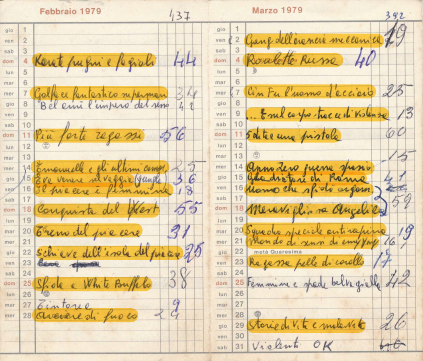
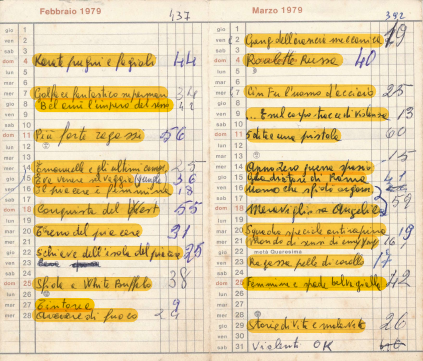
update calendario 79

Changed region(s): [[0.5532, 0.7618, 0.922, 0.8227], [0.0615, 0.2742, 0.4303, 0.3352], [0.0615, 0.8227, 0.2459, 0.8837]]

diff --git a/content/agende/1979-01-01-calendario-proiezioni-1979/index.md b/content/agende/1979-01-01-calendario-proiezioni-1979/index.md
@@ -5,108 +5,111 @@ date: '1979-01-01'
 slug: calendario-proiezioni-1979
 categories:
   - Calendario
-  - Proiezioni
 tags:
-  - AgendaCinematografica
   - Database
+  - Proiezioni
 ---
 {{< image-gallery gallery_dir="/images/1979_01_01_calendario_proiezioni" >}}
 
 ### Lista film
 
-|Data di proiezione |Titolo                                                                     |
-|:------------------|:--------------------------------------------------------------------------|
-|1979-01-01         |[Acquasanta Joe](https://www.imdb.com/title/tt0066743/)                    |
-|1979-01-04         |[Bocca di velluto](https://www.imdb.com/title/tt0069718/)                  |
-|1979-01-05         |[L'uomo dall'occhio di vetro](https://www.imdb.com/title/tt0063270/)       |
-|1979-01-07         |[Squadra speciale antirapina (Quelli antirapina)](https://www.imdb.com/title/tt0071836/)|
-|1979-01-09         |[Il giorno del grande massacro](https://www.imdb.com/title/tt0073357/)     |
-|1979-01-12         |[Una città fatta di rabbia](https://www.imdb.com/title/tt0074278/)         |
-|1979-01-14         |[La valle dei comanches](https://www.imdb.com/title/tt0066034/)            |
-|1979-01-17         |[Labbra di lurido blu](https://www.imdb.com/title/tt0125826/)              |
-|1979-01-18         |[Papillon](https://www.imdb.com/title/tt0070511/)                          |
-|1979-01-21         |[Il drago non perdona](https://www.imdb.com/title/tt0996367/)              |
-|1979-01-22         |[Il gigante dell'Himalaya](https://www.imdb.com/title/tt0076164/)          |
-|1979-01-23         |[Atti impuri all'italiana](https://www.imdb.com/title/tt0166087/)          |
-|1979-01-25         |[La padrona è servita](https://www.imdb.com/title/tt0081296/)              |
-|1979-01-28         |[Anche gli angeli mangiano fagioli](https://www.imdb.com/title/tt0069713/) |
-|1979-01-30         |[I due superpiedi quasi piatti](https://www.imdb.com/title/tt0074442/)     |
-|1979-02-04         |[Storia di karatè, pugni e fagioli](https://www.imdb.com/title/tt0070307/) |
-|1979-02-07         |[Goldface il fantastico Superman](https://www.imdb.com/title/tt0064375/)   |
-|1979-02-11         |[...Più forte ragazzi!](https://www.imdb.com/title/tt0069095/)             |
-|1979-02-14         |[Emanuelle e gli ultimi cannibali](https://www.imdb.com/title/tt0075984/)  |
-|1979-02-15         |[Eva, la Venere selvaggia](https://www.imdb.com/title/tt0062946/)          |
-|1979-02-16         |[Il piacere è femmina](https://www.imdb.com/title/tt0145461/)              |
-|1979-02-18         |[La conquista del West](https://www.imdb.com/title/tt0056085/)             |
-|1979-02-20         |[SS il treno del piacere](https://www.imdb.com/title/tt0076836/)           |
-|1979-02-22         |[Schiave nell'isola del piacere](https://www.imdb.com/title/tt0071712/)    |
-|1979-02-25         |[Sfida a White Buffalo](https://www.imdb.com/title/tt0076915/)             |
-|1979-02-28         |[L'arciere di fuoco](https://www.imdb.com/title/tt0065420/)                |
-|1979-03-02         |[La gang dell'arancia meccanica](https://www.imdb.com/title/tt0280224/)    |
-|1979-03-04         |[Roulette russa](https://www.imdb.com/title/tt0073646/)                    |
+|Data di proiezione |Titolo                                                                                   |
+|:------------------|:----------------------------------------------------------------------------------------|
+|1979-01-01         |[Acquasanta Joe](https://www.imdb.com/title/tt0066743/)                                  |
+|1979-01-04         |[Bocca di velluto](https://www.imdb.com/title/tt0069718/)                                |
+|1979-01-05         |[L'uomo dall'occhio di vetro](https://www.imdb.com/title/tt0063270/)                     |
+|1979-01-07         |[Quelli antirapina (Squadra speciale antirapina)](https://www.imdb.com/title/tt0071836/) |
+|1979-01-09         |[Il giorno del grande massacro](https://www.imdb.com/title/tt0073357/)                   |
+|1979-01-12         |[Una città fatta di rabbia](https://www.imdb.com/title/tt0074278/)                       |
+|1979-01-14         |[La valle dei comanches](https://www.imdb.com/title/tt0066034/)                          |
+|1979-01-17         |[Labbra di lurido blu](https://www.imdb.com/title/tt0125826/)                            |
+|1979-01-18         |[Papillon](https://www.imdb.com/title/tt0070511/)                                        |
+|1979-01-21         |[Il drago non perdona](https://www.imdb.com/title/tt0996367/)                            |
+|1979-01-22         |[Il gigante dell'Himalaya](https://www.imdb.com/title/tt0076164/)                        |
+|1979-01-23         |[Atti impuri all'italiana](https://www.imdb.com/title/tt0166087/)                        |
+|1979-01-25         |[La padrona è servita](https://www.imdb.com/title/tt0081296/)                            |
+|1979-01-28         |[Anche gli angeli mangiano fagioli](https://www.imdb.com/title/tt0069713/)               |
+|1979-01-30         |[I due superpiedi quasi piatti](https://www.imdb.com/title/tt0074442/)                   |
+|1979-02-04         |[Storia di karatè, pugni e fagioli](https://www.imdb.com/title/tt0070307/)               |
+|1979-02-07         |[Goldface il fantastico Superman](https://www.imdb.com/title/tt0064375/)                 |
+|1979-02-08         |[Bel Ami l'impero del sesso](https://www.imdb.com/title/tt0074196/)                      |
+|1979-02-11         |[...Più forte ragazzi!](https://www.imdb.com/title/tt0069095/)                           |
+|1979-02-14         |[Emanuelle e gli ultimi cannibali](https://www.imdb.com/title/tt0075984/)                |
+|1979-02-15         |[Eva, la Venere selvaggia](https://www.imdb.com/title/tt0062946/)                        |
+|1979-02-16         |[Il piacere è femmina](https://www.imdb.com/title/tt0145461/)                            |
+|1979-02-18         |[La conquista del West](https://www.imdb.com/title/tt0056085/)                           |
+|1979-02-20         |[SS il treno del piacere](https://www.imdb.com/title/tt0076836/)                         |
+|1979-02-22         |[Schiave nell'isola del piacere](https://www.imdb.com/title/tt0071712/)                  |
+|1979-02-25         |[Sfida a White Buffalo](https://www.imdb.com/title/tt0076915/)                           |
+|1979-02-27         |[Tintorera](https://www.imdb.com/title/tt0076825/)                                       |
+|1979-02-28         |[L'arciere di fuoco](https://www.imdb.com/title/tt0065420/)                              |
+|1979-03-02         |[La gang dell'arancia meccanica](https://www.imdb.com/title/tt0280224/)                  |
+|1979-03-04         |[Roulette russa](https://www.imdb.com/title/tt0073646/)                                  |
 |1979-03-07         |[Cin-Fu l'uomo d'acciaio - Vado li spacco e... torno!](https://www.imdb.com/title/tt0092270/)|
-|1979-03-09         |[E sul corpo tracce di violenza](https://www.imdb.com/title/tt0071628/)    |
-|1979-03-11         |[5 dita e una pistola](https://www.imdb.com/title/tt0165197/)              |
-|1979-03-14         |[Anno zero - Guerra nello spazio](https://www.imdb.com/title/tt0149677/)   |
-|1979-03-15         |[Il gladiatore di Roma](https://www.imdb.com/title/tt0056026/)             |
-|1979-03-16         |[L'uomo che sfidò l'organizzazione](https://www.imdb.com/title/tt0073845/) |
-|1979-03-18         |[La meravigliosa Angelica](https://www.imdb.com/title/tt0058343/)          |
-|1979-03-20         |[Squadra speciale antirapina](https://www.imdb.com/title/tt0071836/)       |
-|1979-03-21         |[Il mondo dei sensi di Emy Wong](https://www.imdb.com/title/tt0074914/)    |
-|1979-03-23         |[La ragazza dalla pelle di corallo](https://www.imdb.com/title/tt0075383/) |
+|1979-03-09         |[E sul corpo tracce di violenza](https://www.imdb.com/title/tt0071628/)                  |
+|1979-03-11         |[5 dita e una pistola](https://www.imdb.com/title/tt0165197/)                            |
+|1979-03-14         |[Anno zero - Guerra nello spazio](https://www.imdb.com/title/tt0149677/)                 |
+|1979-03-15         |[Il gladiatore di Roma](https://www.imdb.com/title/tt0056026/)                           |
+|1979-03-16         |[L'uomo che sfidò l'organizzazione](https://www.imdb.com/title/tt0073845/)               |
+|1979-03-18         |[La meravigliosa Angelica](https://www.imdb.com/title/tt0058343/)                        |
+|1979-03-20         |[Squadra speciale antirapina](https://www.imdb.com/title/tt0071836/)                     |
+|1979-03-21         |[Il mondo dei sensi di Emy Wong](https://www.imdb.com/title/tt0074914/)                  |
+|1979-03-23         |[La ragazza dalla pelle di corallo](https://www.imdb.com/title/tt0075383/)               |
+|1979-03-25         |[Femmine e spade per una belva gialla (L'uomo dalla mano d'acciaio contro il drago rosso)](https://www.imdb.com/title/tt1342398/)|
 |1979-03-29         |[Storie di vita e malavita (Racket della prostituzione minorile)](https://www.imdb.com/title/tt0073749/)|
-|1979-04-06         |[La orca](https://www.imdb.com/title/tt0126559/)                           |
-|1979-04-08         |[Gatti rossi in un labirinto di vetro](https://www.imdb.com/title/tt0071537/)|
-|1979-04-10         |[La principessa nuda](https://www.imdb.com/title/tt0134906/)               |
-|1979-04-18         |[David e Golia](https://www.imdb.com/title/tt0054788/)                     |
-|1979-04-22         |[Bruce Lee il maestro](https://www.imdb.com/title/tt0071253/)              |
-|1979-04-24         |[L'uomo venuto dalla pioggia](https://www.imdb.com/title/tt0064791/)       |
-|1979-04-29         |[Il testimone deve tacere](https://www.imdb.com/title/tt0179463/)          |
-|1979-05-01         |[Taxi Girl](https://www.imdb.com/title/tt0076801/)                         |
-|1979-05-06         |[La mala ordina](https://www.imdb.com/title/tt0068902/)                    |
-|1979-05-12         |[Holocaust 2000](https://www.imdb.com/title/tt0077332/)                    |
-|1979-05-13         |[I desideri erotici di Christine](https://www.imdb.com/title/tt0066914/)   |
-|1979-05-19         |[La calda bestia](https://www.imdb.com/title/tt0218380/)                   |
-|1979-05-20         |[Salvo D'Acquisto](https://www.imdb.com/title/tt0140529/)                  |
-|1979-08-28         |[Chen il pugno che uccide](https://www.imdb.com/title/tt0080999/)          |
-|1979-09-07         |[Jing wu men xu ji (Il Ritorno di Palma d'Acciaio)](https://www.imdb.com/title/tt0074313/)|
-|1979-09-09         |[L'autista di notte](https://www.imdb.com/title/tt0067777/)                |
-|1979-09-11         |[Quella provincia maliziosa](https://www.imdb.com/title/tt0140491/)        |
-|1979-09-14         |[Gli uomini della terra dimenticata dal tempo](https://www.imdb.com/title/tt0076535/)|
-|1979-09-16         |[Il colpo segreto di Bruce Lee](https://www.imdb.com/title/tt0058994/)     |
+|1979-04-06         |[La orca](https://www.imdb.com/title/tt0126559/)                                         |
+|1979-04-08         |[Gatti rossi in un labirinto di vetro](https://www.imdb.com/title/tt0071537/)            |
+|1979-04-10         |[La principessa nuda](https://www.imdb.com/title/tt0134906/)                             |
+|1979-04-18         |[David e Golia](https://www.imdb.com/title/tt0054788/)                                   |
+|1979-04-22         |[Bruce Lee il maestro](https://www.imdb.com/title/tt0071253/)                            |
+|1979-04-24         |[L'uomo venuto dalla pioggia](https://www.imdb.com/title/tt0064791/)                     |
+|1979-04-29         |[Il testimone deve tacere](https://www.imdb.com/title/tt0179463/)                        |
+|1979-05-01         |[Taxi Girl](https://www.imdb.com/title/tt0076801/)                                       |
+|1979-05-06         |[La mala ordina](https://www.imdb.com/title/tt0068902/)                                  |
+|1979-05-12         |[Holocaust 2000](https://www.imdb.com/title/tt0077332/)                                  |
+|1979-05-13         |[I desideri erotici di Christine](https://www.imdb.com/title/tt0066914/)                 |
+|1979-05-19         |[La calda bestia](https://www.imdb.com/title/tt0218380/)                                 |
+|1979-05-20         |[Salvo D'Acquisto](https://www.imdb.com/title/tt0140529/)                                |
+|1979-08-28         |[Chen il pugno che uccide](https://www.imdb.com/title/tt0080999/)                        |
+|1979-09-07         |[Il ritorno di palma d'acciaio](https://www.imdb.com/title/tt0074313/)                   |
+|1979-09-09         |[L'autista di notte](https://www.imdb.com/title/tt0067777/)                              |
+|1979-09-11         |[Quella provincia maliziosa](https://www.imdb.com/title/tt0140491/)                      |
+|1979-09-14         |[Gli uomini della terra dimenticata dal tempo](https://www.imdb.com/title/tt0076535/)    |
+|1979-09-16         |[Il colpo segreto di Bruce Lee](https://www.imdb.com/title/tt0058994/)                   |
 |1979-09-18         |[Sollazzevoli storie di mogli gaudenti e mariti penitenti - Decameron n. 69](https://www.imdb.com/title/tt0069295/)|
-|1979-09-21         |[Nero veneziano](https://www.imdb.com/title/tt0122629/)                    |
-|1979-09-23         |[Bermude: la fossa maledetta](https://www.imdb.com/title/tt0077225/)       |
-|1979-09-25         |[La ragazza dal pigiama giallo](https://www.imdb.com/title/tt0075834/)     |
-|1979-09-30         |[Lo spaccatutto](https://www.imdb.com/title/tt0079803/)                    |
-|1979-10-04         |[Diamanti sporchi di sangue](https://www.imdb.com/title/tt0075940/)        |
-|1979-10-11         |[Le impiegate stradali](https://www.imdb.com/title/tt0074673/)             |
-|1979-10-12         |[Io sono mia](https://www.imdb.com/title/tt0077748/)                       |
-|1979-10-17         |[La donna della calda terra](https://www.imdb.com/title/tt0077958/)        |
-|1979-10-21         |[California](https://www.imdb.com/title/tt0075796/)                        |
-|1979-10-23         |[Una sporca coppia](https://www.imdb.com/title/tt0198611/)                 |
-|1979-10-25         |[Professoressa facciamo l'amore](https://www.imdb.com/title/tt0072260/)    |
-|1979-10-28         |[Scontri stellari oltre la terza dimensione](https://www.imdb.com/title/tt0079946/)|
-|1979-11-02         |[La furia del drago](https://www.imdb.com/title/tt0827709/)                |
-|1979-11-08         |[Casotto](https://www.imdb.com/title/tt0075815/)                           |
-|1979-11-11         |[Bruce Lee il maestro](https://www.imdb.com/title/tt0071253/)              |
-|1979-11-13         |[La tigre del sesso](https://www.imdb.com/title/tt0078398/)                |
-|1979-11-18         |[Il commissario di ferro](https://www.imdb.com/title/tt0077363/)           |
-|1979-11-20         |[Grizzly l'orso che uccide](https://www.imdb.com/title/tt0074593/)         |
-|1979-11-22         |[Scherzi da prete](https://www.imdb.com/title/tt0078206/)                  |
-|1979-11-23         |[Peccato veniale](https://www.imdb.com/title/tt0066015/)                   |
-|1979-11-25         |[Amore, piombo e furore](https://www.imdb.com/title/tt0077327/)            |
-|1979-11-27         |[Ragazze a pagamento](https://www.imdb.com/title/tt1082822/)               |
-|1979-11-29         |[Suor Emanuelle](https://www.imdb.com/title/tt0078344/)                    |
-|1979-11-30         |[Manitù, lo spirito del male](https://www.imdb.com/title/tt0077904/)       |
-|1979-12-02         |[Il triangolo delle Bermude](https://www.imdb.com/title/tt0078417/)        |
-|1979-12-04         |[Moglie nuda e siciliana](https://www.imdb.com/title/tt0077940/)           |
-|1979-12-06         |[La polizia è sconfitta](https://www.imdb.com/title/tt0078336/)            |
-|1979-12-07         |[Sinbad e l'occhio della tigre](https://www.imdb.com/title/tt0076716/)     |
-|1979-12-09         |[Il vangelo secondo Simone e Matteo](https://www.imdb.com/title/tt0073854/)|
-|1979-12-16         |[Il principe e il povero](https://www.imdb.com/title/tt0077381/)           |
-|1979-12-18         |[Messaggi da forze sconosciute](https://www.imdb.com/title/tt0078975/)     |
-|1979-12-23         |[Aquila Grigia il grande capo dei Cheyenne](https://www.imdb.com/title/tt0077630/)|
-|1979-12-25         |[Incredibile viaggio verso l'ignoto](https://www.imdb.com/title/tt0072951/)|
-|1979-12-28         |[Abissi](https://www.imdb.com/title/tt0075925/)                            |
-|1979-12-30         |[Shalako](https://www.imdb.com/title/tt0063592/)                           |
+|1979-09-21         |[Nero veneziano](https://www.imdb.com/title/tt0122629/)                                  |
+|1979-09-23         |[Bermude: la fossa maledetta](https://www.imdb.com/title/tt0077225/)                     |
+|1979-09-25         |[La ragazza dal pigiama giallo](https://www.imdb.com/title/tt0075834/)                   |
+|1979-09-30         |[Lo spaccatutto](https://www.imdb.com/title/tt0079803/)                                  |
+|1979-10-04         |[Diamanti sporchi di sangue](https://www.imdb.com/title/tt0075940/)                      |
+|1979-10-11         |[Le impiegate stradali](https://www.imdb.com/title/tt0074673/)                           |
+|1979-10-12         |[Io sono mia](https://www.imdb.com/title/tt0077748/)                                     |
+|1979-10-17         |[La donna della calda terra](https://www.imdb.com/title/tt0077958/)                      |
+|1979-10-21         |[California](https://www.imdb.com/title/tt0075796/)                                      |
+|1979-10-23         |[Una sporca coppia](https://www.imdb.com/title/tt0198611/)                               |
+|1979-10-25         |[Professoressa facciamo l'amore](https://www.imdb.com/title/tt0072260/)                  |
+|1979-10-28         |[Scontri stellari oltre la terza dimensione](https://www.imdb.com/title/tt0079946/)      |
+|1979-11-02         |[La furia del drago](https://www.imdb.com/title/tt0827709/)                              |
+|1979-11-04         |[Dogs - Questo cane uccide!](https://www.imdb.com/title/tt0074419/)                      |
+|1979-11-08         |[Casotto](https://www.imdb.com/title/tt0075815/)                                         |
+|1979-11-11         |[Bruce Lee il maestro](https://www.imdb.com/title/tt0071253/)                            |
+|1979-11-13         |[La tigre del sesso](https://www.imdb.com/title/tt0078398/)                              |
+|1979-11-18         |[Il commissario di ferro](https://www.imdb.com/title/tt0077363/)                         |
+|1979-11-20         |[Grizzly l'orso che uccide](https://www.imdb.com/title/tt0074593/)                       |
+|1979-11-22         |[Scherzi da prete](https://www.imdb.com/title/tt0078206/)                                |
+|1979-11-23         |[Peccato veniale](https://www.imdb.com/title/tt0066015/)                                 |
+|1979-11-25         |[Amore, piombo e furore](https://www.imdb.com/title/tt0077327/)                          |
+|1979-11-27         |[Ragazze a pagamento](https://www.imdb.com/title/tt1082822/)                             |
+|1979-11-29         |[Suor Emanuelle](https://www.imdb.com/title/tt0078344/)                                  |
+|1979-11-30         |[Manitù, lo spirito del male](https://www.imdb.com/title/tt0077904/)                     |
+|1979-12-02         |[Il triangolo delle Bermude](https://www.imdb.com/title/tt0078417/)                      |
+|1979-12-04         |[Moglie nuda e siciliana](https://www.imdb.com/title/tt0077940/)                         |
+|1979-12-06         |[La polizia è sconfitta](https://www.imdb.com/title/tt0078336/)                          |
+|1979-12-07         |[Sinbad e l'occhio della tigre](https://www.imdb.com/title/tt0076716/)                   |
+|1979-12-09         |[Il vangelo secondo Simone e Matteo](https://www.imdb.com/title/tt0073854/)              |
+|1979-12-16         |[Il principe e il povero](https://www.imdb.com/title/tt0077381/)                         |
+|1979-12-18         |[Messaggi da forze sconosciute](https://www.imdb.com/title/tt0078975/)                   |
+|1979-12-23         |[Aquila Grigia il grande capo dei Cheyenne](https://www.imdb.com/title/tt0077630/)       |
+|1979-12-25         |[Incredibile viaggio verso l'ignoto](https://www.imdb.com/title/tt0072951/)              |
+|1979-12-28         |[Abissi](https://www.imdb.com/title/tt0075925/)                                          |
+|1979-12-30         |[Shalako](https://www.imdb.com/title/tt0063592/)                                         |
